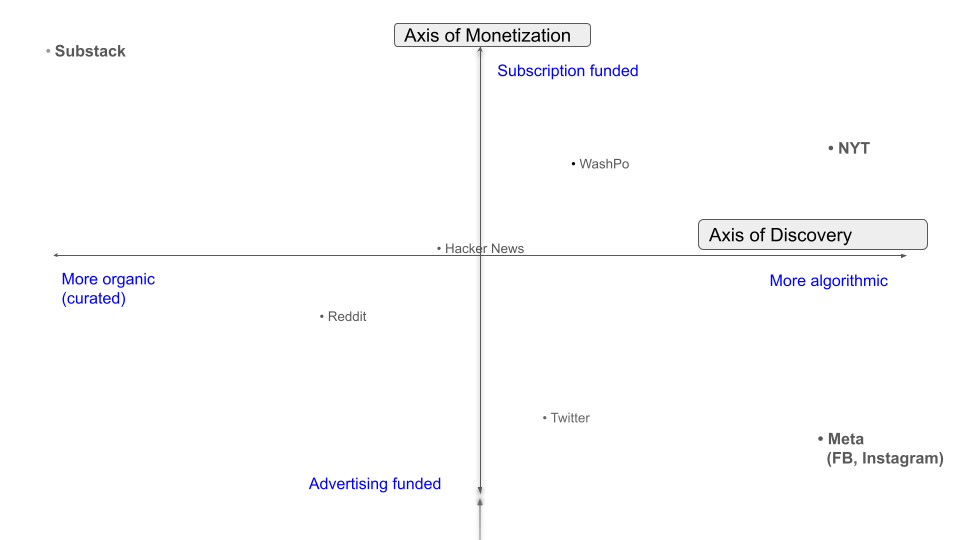
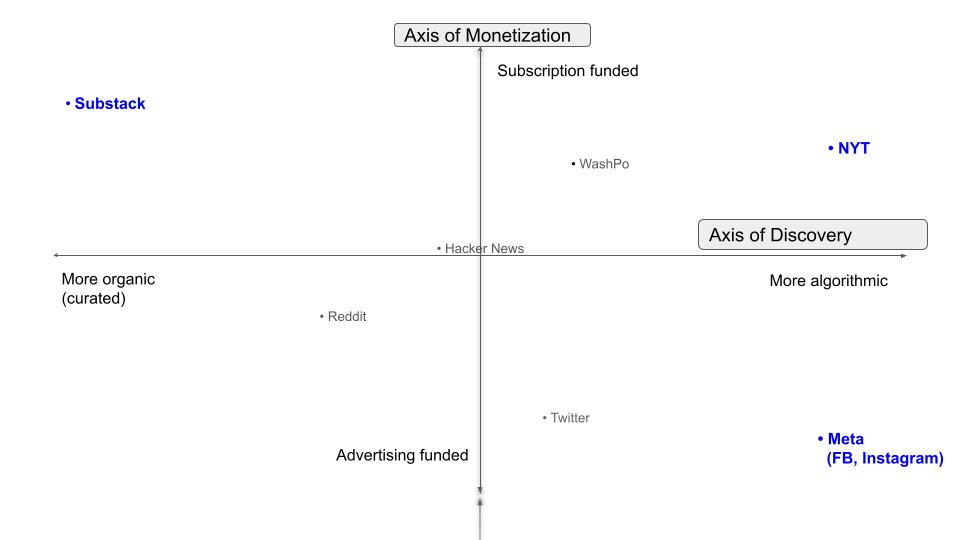
Blog post - Substack Proof Edits

diff --git a/_posts/2022-04-20-substack-discovery-monetization.md b/_posts/2022-04-20-substack-discovery-monetization.md
@@ -1,0 +1,37 @@
+---
+layout: post
+title:  Subscriptions and Advertising in Digital Media  - Either/Or or Both/And
+---
+
+*Digital media is a stronghold of subscription-based e-commerce, but while this is often considered the opposite of the advertising-based revenue model, in practice, many companies rely on both forms of commerce.*
+<!--excerpt--> 
+
+Digital news media is converging rapidly on the subscription model as its preferred form of monetization. A recent tier of subscription-only newsletter companies (Substack is the best known of these), traditional media companies like *The New York Times*, and even social media companies like Twitter, all offer paid subscriptions to consumers. One question we ask ourselves is "are subscriptions and advertising mutually exclusive?" The answer, we discoverd is that they are not exclusive at all.
+
+Our exploration was inspired by a post entitled [*The Ideology of Substack*](https://every.to/divinations/substack-s-ideology) by Nathan Baschez, one of the movers behind the newsletter consortium, *Every*, and previously an early employee at Substack. In the post, Baschez observes that prior to launch, Substack's founders diagnosed two central problems of digital media: "Advertising...which rewards publishers for attracting attention" and "Engagement Algorithims" which promote virality based on emotions such as outrage.
+
+According to the post, Substack was shaped by its founders' hypothesized solutions to each problem: 1) Paid subscriptions replace advertising for monetization; and 2) email inboxes replace algorithmically-generated content feeds. I want to focus here on these two "central problems" and suggest that digital media can be situated, correspondingly, on two axes: an Axis of Monetization (with advertising on one side and subscriptions on the other)and an Axis of Discovery (algorithmic on one side and organic/curated on the other):
+
+This is easier to draw than to explain in words, so here's how this coordinate system looks with several prominent contemporary media companies plotted on it. 
+
+![Axes of Discovery and Monetization](/lanyon-jh-test/assets/images/digital-media-business-model.png)
+
+Even a cursory application of this framework reveals some surprising findings.
+
+Substack is situated on the extreme upper left of the coordinate grid - it accepts no advertising, relies 100% on subscription revenue, and doesn't have any form of "news feed" or other algorithmic discovery.  There likely are other similar properties, but, offhand, I can't think of any. Substack is by far the most ardent proponent of its founders' opinionated view of how digital media should work.
+
+Another company which has been promoting its reliance on reader subscriptions is the *New York Times*, situated in the upper right quadrant of the coordinates. Not only do NYT website/apps have a paywall, but content that used to be given away with the physical paper such as food recipes and the crossword puzzle have been spun off as independent paid subscriptions. Its recently announced acquistion of the subscription sports journalism site, *The Athletic*, possibly foreshadows a world where the NYT sports section is a paid add-on subscription rather than part of the traditional paper.
+
+As any subscriber who uses the Times apps or website knows, stories are pushed at users algorithmically. On occasions where I see "dead tree" edition of the paper, I'm always surprised that I see bylines of writers who I assume had left the NYT and topics that I rarely see online.  And despite the fact that subscriptions to the paper, Food, and Puzzles apps cost a combined several hundred dollars per year, the NYT still targets me with advertising whenever I use its site or apps.
+
+For all of these reasons I have located the NYT on the upper right of the grid: heavily dependent on subscription revenue, but also on advertising. And probably because of the advertising, they are algorithmically promoting articles which generate the most clicks.
+
+Meta, parent company of Facebook and Instagram, famously depends on targeted advertising in its algorithmically-generated news feed. Not surprisingly, Facebook invented many "surveillance capitalism" technologies (not because it intended to become enmeshed in political controversy, but because those technologies enable it to target advertising profitably). However, even Meta has been incorporating subscriptions into its commerce mix with the 2021 introduction of Creator Subscripitons which enable social media influencers to sell subscriptions to their followers (Meta, of course, takes a cut).  Because of its dependence on advertising and algorithmic targeting, Meta's products are located on the lower right quadrant of my grid. 
+
+The only quadrant which is empty (with the exception arguably of Reddit) is the lower left. That's because in order to compete effectively in the digital advertising marketplace, it's required to do some algorithmic targeting.
+
+The takeaway here is that these days it is rare for companies to be entirely dependent on either subscriptions or on advertising.  While many companies rely on algorithims to decide what content and advertising to show users, it's also somewhat unusual for a company to be entirely dependent on them. Most companies, lacking the enormous resources of the NYT or Facebook rely on a mixture of algorithms, curation and old-fashioned publicity to promote discovery of their content.
+
+
+
+
